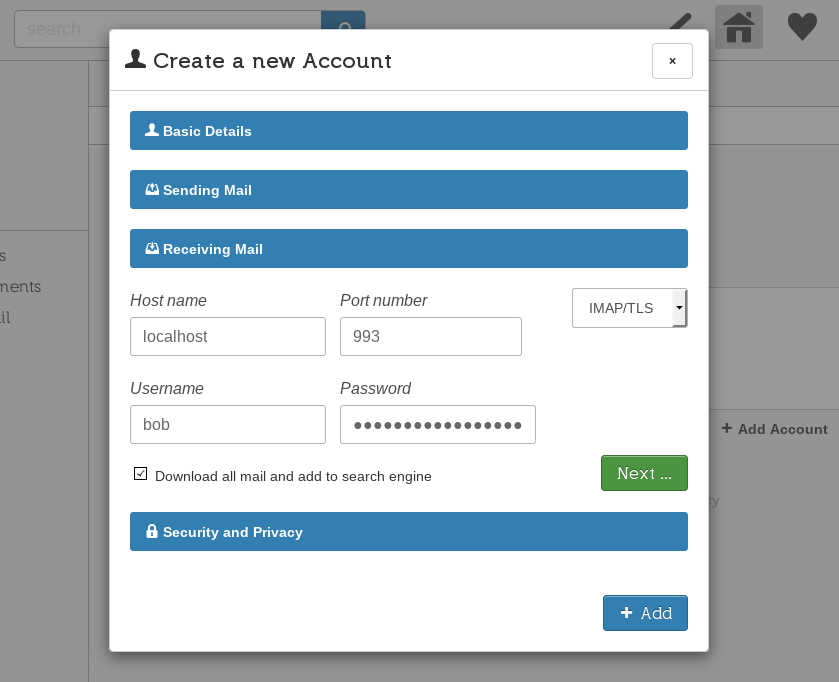
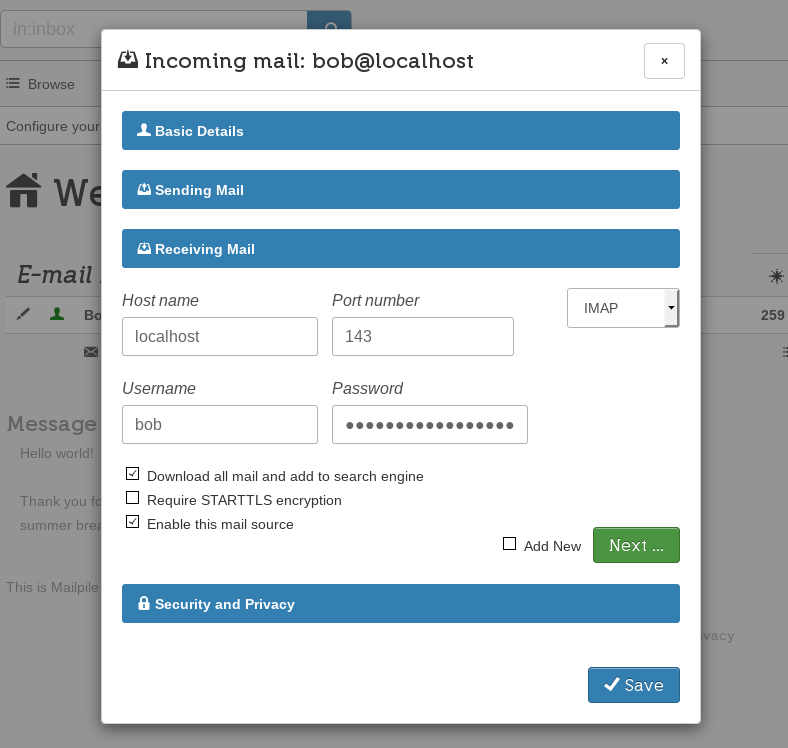
mailpile keys image

diff --git a/website/EN/app_mailpile.html b/website/EN/app_mailpile.html
@@ -3,7 +3,7 @@
 "http://www.w3.org/TR/xhtml1/DTD/xhtml1-strict.dtd">
 <html xmlns="http://www.w3.org/1999/xhtml" lang="en" xml:lang="en">
 <head>
-<!-- 2016-11-14 Mon 13:35 -->
+<!-- 2016-11-14 Mon 13:40 -->
 <meta http-equiv="Content-Type" content="text/html;charset=utf-8" />
 <meta name="viewport" content="width=device-width, initial-scale=1" />
 <title></title>
@@ -259,9 +259,9 @@ An advantage of this type of webmail is that <i>it keeps your GPG keys off of an
 One down side is that this appears to be a single user system, so if you have multiple users on your Freedombone server only the administrator will actually be able to use mailpile.
 </p>
 
-<div id="outline-container-orgb258225" class="outline-2">
-<h2 id="orgb258225">Installation</h2>
-<div class="outline-text-2" id="text-orgb258225">
+<div id="outline-container-org87b8219" class="outline-2">
+<h2 id="org87b8219">Installation</h2>
+<div class="outline-text-2" id="text-org87b8219">
 <p>
 Log into your system with:
 </p>
@@ -285,9 +285,9 @@ After the install has completed go to <b>Security settings</b> and select <b>Cre
 </div>
 </div>
 
-<div id="outline-container-orge68fae6" class="outline-2">
-<h2 id="orge68fae6">Initial setup</h2>
-<div class="outline-text-2" id="text-orge68fae6">
+<div id="outline-container-orgcb63769" class="outline-2">
+<h2 id="orgcb63769">Initial setup</h2>
+<div class="outline-text-2" id="text-orgcb63769">
 <p>
 If you have just obtained a Lets Encrypt certificate as above then go to <b>About</b> on the administrator control panel and you should see your Mailpile domain listed there along with an onion address. You can then navigate to your site in a browser.
 </p>
@@ -344,6 +344,14 @@ Under <b>Sending Mail</b> select <b>local</b> or if you need to proxy outgoing e
 <p>
 Under <b>Receiving files</b> select <b>IMAP</b>, the domain as <b>localhost</b>, port <b>143</b>, your username and password, then click <b>Next</b>. Astute readers may well be concerned that IMAP over port 143 is not encrypted, but since this is only via localhost communication between the Mail Transport Agent and Mailpile doesn't travel over the internet and port 143 is not opened on the firewall so it's not possible to accidentally connect an external mail client insecurely.
 </p>
+
+<div class="org-center">
+
+<div class="figure">
+<p><img src="images/mailpile_setup_keys.jpg" alt="mailpile_setup_keys.jpg" />
+</p>
+</div>
+</div>
 
 <p>
 Under <b>Security and Privacy</b> either select your existing encryption key or if you only get the option to create a new one then do so, then click <b>Add</b> or <b>Save</b>.
